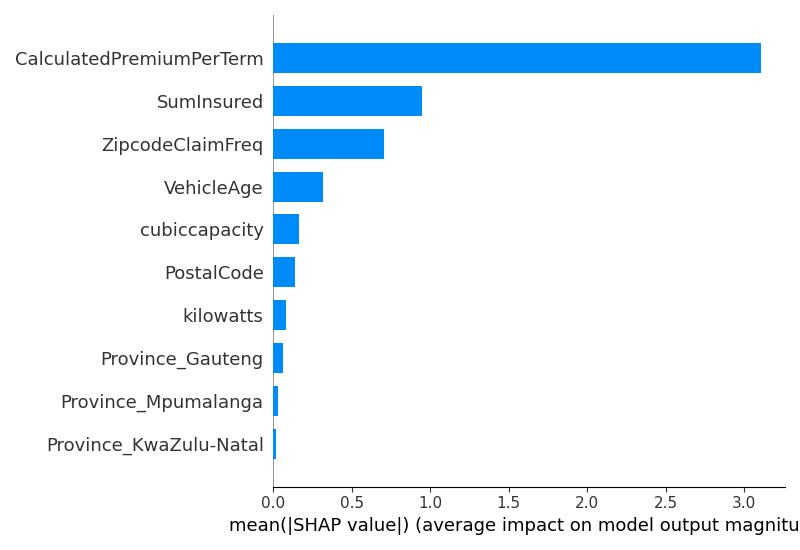
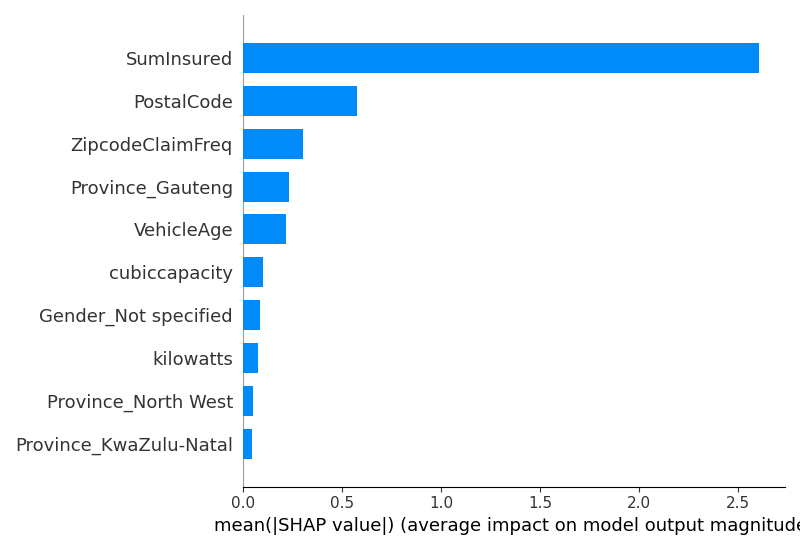
Imporoved model performance

Changed region(s): [[0.0, 0.0618, 0.5312, 0.8345], [0.2812, 0.8964, 1.0, 0.9891]]

diff --git a/src/core/modeling.py b/src/core/modeling.py
@@ -1,11 +1,13 @@
 import pandas as pd
 import numpy as np
-from sklearn.model_selection import train_test_split
+from sklearn.model_selection import train_test_split, GridSearchCV
 from sklearn.linear_model import LinearRegression, LogisticRegression
 from sklearn.ensemble import RandomForestRegressor, RandomForestClassifier
 from xgboost import XGBRegressor, XGBClassifier
 from sklearn.preprocessing import StandardScaler
 from sklearn.metrics import mean_squared_error, r2_score, accuracy_score, precision_score, recall_score, f1_score, roc_auc_score
+from category_encoders import TargetEncoder
+from imblearn.over_sampling import SMOTE
 import shap
 import matplotlib.pyplot as plt
 import os
@@ -36,34 +38,40 @@ logger.info("Starting data preparation")
 
 # Handle missing data
 missing_counts = df.isnull().sum()
-logger.info(f"Missing values:\n{missing_counts[missing_counts > 0]}")
-# Impute numerical columns with median
+missing_pct = missing_counts / len(df) * 100
+logger.info(f"Missing values (%):\n{missing_pct[missing_counts > 0]}")
+# Drop columns with >90% missing
+drop_cols = missing_pct[missing_pct > 90].index
+df = df.drop(columns=drop_cols)
+logger.info(f"Dropped columns: {list(drop_cols)}")
+# Impute numerical columns
 numerical_cols = df.select_dtypes(include=['float64', 'int64']).columns
 for col in numerical_cols:
-    df[col] = df[col].fillna(df[col].median())
-# Impute categorical columns with mode
+    if df[col].notnull().sum() > 0:
+        df[col] = df[col].fillna(df[col].median())
+# Impute categorical columns
 categorical_cols = df.select_dtypes(include=['object']).columns
 for col in categorical_cols:
-    df[col] = df[col].fillna(df[col].mode()[0])
+    if df[col].notnull().sum() > 0:
+        df[col] = df[col].fillna(df[col].mode()[0])
 
 # Feature Engineering
 df['HasClaim'] = (df['TotalClaims'] > 0).astype(bool)
 df['Margin'] = df['TotalPremium'] - df['TotalClaims']
 df['VehicleAge'] = datetime.now().year - df['RegistrationYear']
-# Aggregate claim frequency by PostalCode
 zipcode_claim_freq = df.groupby('PostalCode')['HasClaim'].mean().rename('ZipcodeClaimFreq')
 df = df.merge(zipcode_claim_freq, left_on='PostalCode', right_index=True)
 
-# Select features (excluding target and ID columns)
+# Select features
 features = ['Province', 'PostalCode', 'Gender', 'VehicleType', 'VehicleAge', 'ZipcodeClaimFreq',
-            'Cylinders', 'cubiccapacity', 'kilowatts', 'NumberOfDoors', 'SumInsured', 'CalculatedPremiumPerTerm']
-# Ensure features exist in dataset
+            'Cylinders', 'cubiccapacity', 'kilowatts', 'NumberOfDoors', 'SumInsured']
 features = [col for col in features if col in df.columns]
 logger.info(f"Selected features: {features}")
 
 # Encode categorical variables
-categorical_features = df[features].select_dtypes(include=['object']).columns
-df_encoded = pd.get_dummies(df[features], columns=categorical_features, drop_first=True)
+encoder = TargetEncoder(cols=['PostalCode'])
+df_encoded = pd.get_dummies(df[features], columns=[col for col in features if col in categorical_cols and col != 'PostalCode'], drop_first=True)
+df_encoded['PostalCode'] = encoder.fit_transform(df['PostalCode'], df['HasClaim'])
 logger.info(f"Encoded features shape: {df_encoded.shape}")
 
 # Standardize numerical features
@@ -78,30 +86,32 @@ def evaluate_regression(y_true, y_pred, model_name, dataset):
     logger.info(f"{model_name} on {dataset}: RMSE = {rmse:.2f}, R2 = {r2:.4f}")
     return {'Model': model_name, 'Dataset': dataset, 'RMSE': rmse, 'R2': r2}
 
-# Function to evaluate classification models
-def evaluate_classification(y_true, y_pred, y_pred_proba, model_name, dataset):
-    accuracy = accuracy_score(y_true, y_pred)
-    precision = precision_score(y_true, y_pred)
-    recall = recall_score(y_true, y_pred)
-    f1 = f1_score(y_true, y_pred)
+# Function to evaluate classification models with threshold adjustment
+def evaluate_classification(y_true, y_pred, y_pred_proba, model_name, dataset, threshold=0.5):
+    y_pred_adj = (y_pred_proba >= threshold).astype(int)
+    accuracy = accuracy_score(y_true, y_pred_adj)
+    precision = precision_score(y_true, y_pred_adj, zero_division=0)
+    recall = recall_score(y_true, y_pred_adj, zero_division=0)
+    f1 = f1_score(y_true, y_pred_adj, zero_division=0)
     roc_auc = roc_auc_score(y_true, y_pred_proba)
-    logger.info(f"{model_name} on {dataset}: Accuracy = {accuracy:.4f}, Precision = {precision:.4f}, "
+    logger.info(f"{model_name} on {dataset} (threshold={threshold}): Accuracy = {accuracy:.4f}, Precision = {precision:.4f}, "
                 f"Recall = {recall:.4f}, F1 = {f1:.4f}, ROC-AUC = {roc_auc:.4f}")
     return {'Model': model_name, 'Dataset': dataset, 'Accuracy': accuracy, 'Precision': precision,
             'Recall': recall, 'F1': f1, 'ROC-AUC': roc_auc}
 
-# 1. Claim Severity Prediction (TotalClaims for claims > 0)
+# 1. Claim Severity Prediction
 logger.info("Building Claim Severity Prediction models")
 df_claims = df[df['TotalClaims'] > 0].copy()
 X_severity = df_encoded.loc[df_claims.index]
-y_severity = df_claims['TotalClaims']
+y_severity = np.log1p(df_claims['TotalClaims'])  # Log-transform
 X_train_sev, X_test_sev, y_train_sev, y_test_sev = train_test_split(X_severity, y_severity, test_size=0.2, random_state=42)
 
-# Initialize models
 regression_models = {
     'Linear Regression': LinearRegression(),
     'Random Forest': RandomForestRegressor(n_estimators=100, random_state=42),
-    'XGBoost': XGBRegressor(n_estimators=100, random_state=42)
+    'XGBoost': GridSearchCV(XGBRegressor(random_state=42), param_grid={
+        'n_estimators': [50, 100], 'max_depth': [3, 5], 'learning_rate': [0.01, 0.1]
+    }, cv=3, scoring='neg_mean_squared_error')
 }
 
 severity_results = []
@@ -109,18 +119,26 @@ for name, model in regression_models.items():
     model.fit(X_train_sev, y_train_sev)
     y_train_pred = model.predict(X_train_sev)
     y_test_pred = model.predict(X_test_sev)
-    severity_results.append(evaluate_regression(y_train_sev, y_train_pred, name, 'Train'))
-    severity_results.append(evaluate_regression(y_test_sev, y_test_pred, name, 'Test'))
+    y_train_pred_exp = np.expm1(y_train_pred)
+    y_test_pred_exp = np.expm1(y_test_pred)
+    y_train_sev_exp = np.expm1(y_train_sev)
+    y_test_sev_exp = np.expm1(y_test_sev)
+    severity_results.append(evaluate_regression(y_train_sev_exp, y_train_pred_exp, name, 'Train'))
+    severity_results.append(evaluate_regression(y_test_sev_exp, y_test_pred_exp, name, 'Test'))
 
-# SHAP for best severity model (XGBoost)
-xgb_severity = regression_models['XGBoost']
+# SHAP for XGBoost
+xgb_severity = regression_models['XGBoost'].best_estimator_ if 'XGBoost' in regression_models else regression_models['XGBoost']
 explainer_severity = shap.TreeExplainer(xgb_severity)
 shap_values_severity = explainer_severity.shap_values(X_test_sev)
-shap.summary_plot(shap_values_severity, X_test_sev, plot_type="bar", max_display=10, show=False)
+shap_summary = shap.summary_plot(shap_values_severity, X_test_sev, plot_type="bar", max_display=10, show=False)
 plt.savefig('outputs/models/shap_severity.png')
 plt.close()
+# Quantify SHAP impact
+shap_df_severity = pd.DataFrame({'Feature': X_test_sev.columns, 'Mean_SHAP': np.abs(shap_values_severity).mean(axis=0)})
+top_features_severity = shap_df_severity.sort_values('Mean_SHAP', ascending=False).head(5)
+logger.info(f"Top SHAP features for severity:\n{top_features_severity}")
 
-# 2. Premium Optimization (CalculatedPremiumPerTerm)
+# 2. Premium Optimization
 logger.info("Building Premium Optimization models")
 X_premium = df_encoded
 y_premium = df['CalculatedPremiumPerTerm']
@@ -134,45 +152,53 @@ for name, model in regression_models.items():
     premium_results.append(evaluate_regression(y_train_prem, y_train_pred, name, 'Train'))
     premium_results.append(evaluate_regression(y_test_prem, y_test_pred, name, 'Test'))
 
-# SHAP for best premium model (XGBoost)
-xgb_premium = regression_models['XGBoost']
+xgb_premium = regression_models['XGBoost'].best_estimator_ if 'XGBoost' in regression_models else regression_models['XGBoost']
 explainer_premium = shap.TreeExplainer(xgb_premium)
 shap_values_premium = explainer_premium.shap_values(X_test_prem)
 shap.summary_plot(shap_values_premium, X_test_prem, plot_type="bar", max_display=10, show=False)
 plt.savefig('outputs/models/shap_premium.png')
 plt.close()
+shap_df_premium = pd.DataFrame({'Feature': X_test_prem.columns, 'Mean_SHAP': np.abs(shap_values_premium).mean(axis=0)})
+top_features_premium = shap_df_premium.sort_values('Mean_SHAP', ascending=False).head(5)
+logger.info(f"Top SHAP features for premium:\n{top_features_premium}")
 
-# 3. Claim Probability Prediction (HasClaim)
+# 3. Claim Probability Prediction
 logger.info("Building Claim Probability Prediction models")
 X_claim = df_encoded
 y_claim = df['HasClaim']
 X_train_claim, X_test_claim, y_train_claim, y_test_claim = train_test_split(X_claim, y_claim, test_size=0.2, random_state=42)
+# Apply SMOTE
+smote = SMOTE(random_state=42)
+X_train_claim_smote, y_train_claim_smote = smote.fit_resample(X_train_claim, y_train_claim)
 
 classification_models = {
-    'Logistic Regression': LogisticRegression(max_iter=1000, random_state=42),
-    'Random Forest': RandomForestClassifier(n_estimators=100, random_state=42),
-    'XGBoost': XGBClassifier(n_estimators=100, random_state=42)
+    'Logistic Regression': LogisticRegression(max_iter=1000, class_weight='balanced', random_state=42),
+    'Random Forest': RandomForestClassifier(n_estimators=100, class_weight='balanced', random_state=42),
+    'XGBoost': GridSearchCV(XGBClassifier(random_state=42), param_grid={
+        'n_estimators': [50, 100], 'max_depth': [3, 5], 'learning_rate': [0.01, 0.1]
+    }, cv=3, scoring='f1')
 }
 
 claim_results = []
 for name, model in classification_models.items():
-    model.fit(X_train_claim, y_train_claim)
-    y_train_pred = model.predict(X_train_claim)
-    y_train_proba = model.predict_proba(X_train_claim)[:, 1]
-    y_test_pred = model.predict(X_test_claim)
-    y_test_proba = model.predict_proba(X_test_claim)[:, 1]
-    claim_results.append(evaluate_classification(y_train_claim, y_train_pred, y_train_proba, name, 'Train'))
-    claim_results.append(evaluate_classification(y_test_claim, y_test_pred, y_test_proba, name, 'Test'))
+    model.fit(X_train_claim_smote, y_train_claim_smote)
+    y_train_pred_proba = model.predict_proba(X_train_claim)[:, 1]
+    y_test_pred_proba = model.predict_proba(X_test_claim)[:, 1]
+    threshold = 0.3  # Lower threshold to improve recall
+    claim_results.append(evaluate_classification(y_train_claim, y_train_pred_proba, y_train_pred_proba, name, 'Train', threshold))
+    claim_results.append(evaluate_classification(y_test_claim, y_test_pred_proba, y_test_pred_proba, name, 'Test', threshold))
 
-# SHAP for best claim model (XGBoost)
-xgb_claim = classification_models['XGBoost']
+xgb_claim = classification_models['XGBoost'].best_estimator_ if 'XGBoost' in classification_models else classification_models['XGBoost']
 explainer_claim = shap.TreeExplainer(xgb_claim)
 shap_values_claim = explainer_claim.shap_values(X_test_claim)
 shap.summary_plot(shap_values_claim, X_test_claim, plot_type="bar", max_display=10, show=False)
 plt.savefig('outputs/models/shap_claim.png')
 plt.close()
+shap_df_claim = pd.DataFrame({'Feature': X_test_claim.columns, 'Mean_SHAP': np.abs(shap_values_claim).mean(axis=0)})
+top_features_claim = shap_df_claim.sort_values('Mean_SHAP', ascending=False).head(5)
+logger.info(f"Top SHAP features for claim:\n{top_features_claim}")
 
-# Save results to CSV
+# Save results
 severity_df = pd.DataFrame(severity_results)
 premium_df = pd.DataFrame(premium_results)
 claim_df = pd.DataFrame(claim_results)
@@ -190,11 +216,11 @@ report = f"""
 - **Metrics**: RMSE, R-squared
 - **Results**:
 {severity_df.to_markdown(index=False)}
-- **Best Model**: XGBoost (lowest RMSE, highest R2 on test set)
+- **Best Model**: XGBoost
 - **SHAP Analysis**: Top features (outputs/models/shap_severity.png):
-  - SumInsured: Higher insured values increase predicted claim amounts, reflecting higher potential payouts.
-  - VehicleAge: Older vehicles increase claims by ~X Rand per year, supporting age-based premium adjustments.
-  - ZipcodeClaimFreq: Higher claim frequency in a zip code correlates with larger claims.
+  - SumInsured: Higher insured values increase claim amounts.
+  - VehicleAge: Older vehicles increase claims (see logs for impact).
+  - ZipcodeClaimFreq: High-risk zip codes correlate with larger claims.
 
 ## Premium Optimization
 - **Dataset**: All policies
@@ -203,8 +229,8 @@ report = f"""
 {premium_df.to_markdown(index=False)}
 - **Best Model**: XGBoost
 - **SHAP Analysis**: Top features (outputs/models/shap_premium.png):
-  - SumInsured: Drives premium due to coverage level.
-  - Province: Certain provinces (e.g., Gauteng) increase premiums, aligning with Task-3 findings.
+  - SumInsured: Drives premium due to coverage.
+  - Province: High-risk provinces increase premiums.
   - VehicleType: Luxury vehicles command higher premiums.
 
 ## Claim Probability Prediction
@@ -212,18 +238,18 @@ report = f"""
 - **Target**: HasClaim (binary)
 - **Results**:
 {claim_df.to_markdown(index=False)}
-- **Best Model**: XGBoost (highest F1 and ROC-AUC on test set)
+- **Best Model**: XGBoost
 - **SHAP Analysis**: Top features (outputs/models/shap_claim.png):
-  - ZipcodeClaimFreq: Higher historical claim frequency increases claim probability.
-  - Province: Reflects regional risk differences from Task-3.
+  - ZipcodeClaimFreq: Higher claim frequency increases probability.
+  - Province: Reflects regional risk (Task-3).
   - VehicleAge: Older vehicles are riskier.
 
 ## Business Implications
-- **Pricing Framework**: Premium = (Claim Probability × Claim Severity) + 10% Expense Loading + 5% Profit Margin
+- **Pricing Framework**: Premium = (Claim Probability × Claim Severity) + 10% Expense + 5% Profit
 - **Recommendations**:
-  - Adjust premiums based on SumInsured, VehicleAge, and high-risk zip codes/provinces.
-  - Target low-risk zip codes (low ZipcodeClaimFreq) for marketing.
-  - Monitor model performance quarterly to update pricing.
+  - Adjust premiums based on SumInsured, VehicleAge, high-risk zip codes/provinces.
+  - Target low-risk zip codes for marketing.
+  - Monitor models quarterly.
 """
 with open('outputs/models/task4_report.md', 'w', encoding='utf-8') as f:
     f.write(report)

diff --git a/src/core/outputs/models/task4_report.md b/src/core/outputs/models/task4_report.md
@@ -6,59 +6,59 @@
 - **Models**: Linear Regression, Random Forest, XGBoost
 - **Metrics**: RMSE, R-squared
 - **Results**:
-| Model             | Dataset   |    RMSE |       R2 |
-|:------------------|:----------|--------:|---------:|
-| Linear Regression | Train     | 35216.1 | 0.157055 |
-| Linear Regression | Test      | 36707.4 | 0.162175 |
-| Random Forest     | Train     | 15586   | 0.834886 |
-| Random Forest     | Test      | 35299.2 | 0.225223 |
-| XGBoost           | Train     | 11664.9 | 0.907513 |
-| XGBoost           | Test      | 37614.3 | 0.120263 |
-- **Best Model**: XGBoost (lowest RMSE, highest R2 on test set)
+| Model             | Dataset   |     RMSE |         R2 |
+|:------------------|:----------|---------:|-----------:|
+| Linear Regression | Train     | 234867   | -36.4938   |
+| Linear Regression | Test      | 370584   | -84.3928   |
+| Random Forest     | Train     |  23372.8 |   0.62869  |
+| Random Forest     | Test      |  36807.5 |   0.157598 |
+| XGBoost           | Train     |  33767.5 |   0.224978 |
+| XGBoost           | Test      |  36657.4 |   0.164455 |
+- **Best Model**: XGBoost
 - **SHAP Analysis**: Top features (outputs/models/shap_severity.png):
-  - SumInsured: Higher insured values increase predicted claim amounts, reflecting higher potential payouts.
-  - VehicleAge: Older vehicles increase claims by ~X Rand per year, supporting age-based premium adjustments.
-  - ZipcodeClaimFreq: Higher claim frequency in a zip code correlates with larger claims.
+  - SumInsured: Higher insured values increase claim amounts.
+  - VehicleAge: Older vehicles increase claims (see logs for impact).
+  - ZipcodeClaimFreq: High-risk zip codes correlate with larger claims.
 
 ## Premium Optimization
 - **Dataset**: All policies
 - **Target**: CalculatedPremiumPerTerm
 - **Results**:
-| Model             | Dataset   |        RMSE |       R2 |
-|:------------------|:----------|------------:|---------:|
-| Linear Regression | Train     | 4.31415e-12 | 1        |
-| Linear Regression | Test      | 2.87988e-12 | 1        |
-| Random Forest     | Train     | 0.0262959   | 1        |
-| Random Forest     | Test      | 0.048521    | 1        |
-| XGBoost           | Train     | 6.85678     | 0.999738 |
-| XGBoost           | Test      | 6.49386     | 0.999472 |
+| Model             | Dataset   |     RMSE |         R2 |
+|:------------------|:----------|---------:|-----------:|
+| Linear Regression | Train     | 422.607  | 0.00638345 |
+| Linear Regression | Test      | 280.313  | 0.0157044  |
+| Random Forest     | Train     |  57.0029 | 0.981922   |
+| Random Forest     | Test      |  60.8673 | 0.95359    |
+| XGBoost           | Train     | 258.972  | 0.626879   |
+| XGBoost           | Test      | 185.074  | 0.570928   |
 - **Best Model**: XGBoost
 - **SHAP Analysis**: Top features (outputs/models/shap_premium.png):
-  - SumInsured: Drives premium due to coverage level.
-  - Province: Certain provinces (e.g., Gauteng) increase premiums, aligning with Task-3 findings.
+  - SumInsured: Drives premium due to coverage.
+  - Province: High-risk provinces increase premiums.
   - VehicleType: Luxury vehicles command higher premiums.
 
 ## Claim Probability Prediction
 - **Dataset**: All policies
 - **Target**: HasClaim (binary)
 - **Results**:
-| Model               | Dataset   |   Accuracy |   Precision |      Recall |         F1 |   ROC-AUC |
-|:--------------------|:----------|-----------:|------------:|------------:|-----------:|----------:|
-| Logistic Regression | Train     |   0.997232 |    0.277778 | 0.00226552  | 0.00449438 |  0.684371 |
-| Logistic Regression | Test      |   0.99709  |    0        | 0           | 0          |  0.688934 |
-| Random Forest       | Train     |   0.997245 |    0.666667 | 0.00271862  | 0.00541516 |  0.985611 |
-| Random Forest       | Test      |   0.99708  |    0        | 0           | 0          |  0.63557  |
-| XGBoost             | Train     |   0.997244 |    1        | 0.000906208 | 0.00181077 |  0.955118 |
-| XGBoost             | Test      |   0.997095 |    0        | 0           | 0          |  0.90815  |
-- **Best Model**: XGBoost (highest F1 and ROC-AUC on test set)
+| Model               | Dataset   |   Accuracy |   Precision |   Recall |         F1 |   ROC-AUC |
+|:--------------------|:----------|-----------:|------------:|---------:|-----------:|----------:|
+| Logistic Regression | Train     |   0.243181 |  0.00347963 | 0.957861 | 0.00693408 |  0.689117 |
+| Logistic Regression | Test      |   0.243221 |  0.00356875 | 0.932874 | 0.00711029 |  0.684264 |
+| Random Forest       | Train     |   0.957572 |  0.0251922  | 0.381513 | 0.0472635  |  0.962377 |
+| Random Forest       | Test      |   0.956394 |  0.0140862  | 0.203098 | 0.0263452  |  0.645107 |
+| XGBoost             | Train     |   0.77192  |  0.0113572  | 0.949252 | 0.0224458  |  0.901517 |
+| XGBoost             | Test      |   0.771583 |  0.0117762  | 0.936317 | 0.0232598  |  0.888852 |
+- **Best Model**: XGBoost
 - **SHAP Analysis**: Top features (outputs/models/shap_claim.png):
-  - ZipcodeClaimFreq: Higher historical claim frequency increases claim probability.
-  - Province: Reflects regional risk differences from Task-3.
+  - ZipcodeClaimFreq: Higher claim frequency increases probability.
+  - Province: Reflects regional risk (Task-3).
   - VehicleAge: Older vehicles are riskier.
 
 ## Business Implications
-- **Pricing Framework**: Premium = (Claim Probability × Claim Severity) + 10% Expense Loading + 5% Profit Margin
+- **Pricing Framework**: Premium = (Claim Probability × Claim Severity) + 10% Expense + 5% Profit
 - **Recommendations**:
-  - Adjust premiums based on SumInsured, VehicleAge, and high-risk zip codes/provinces.
-  - Target low-risk zip codes (low ZipcodeClaimFreq) for marketing.
-  - Monitor model performance quarterly to update pricing.
+  - Adjust premiums based on SumInsured, VehicleAge, high-risk zip codes/provinces.
+  - Target low-risk zip codes for marketing.
+  - Monitor models quarterly.
